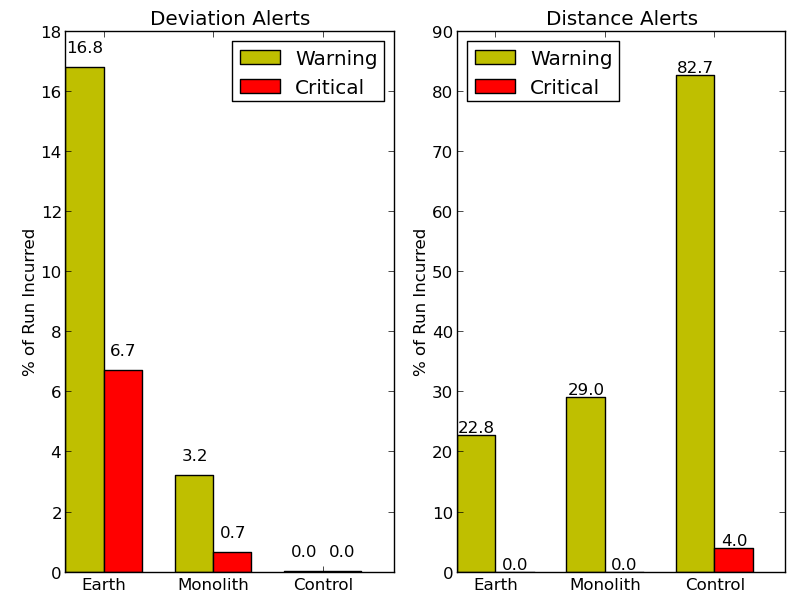
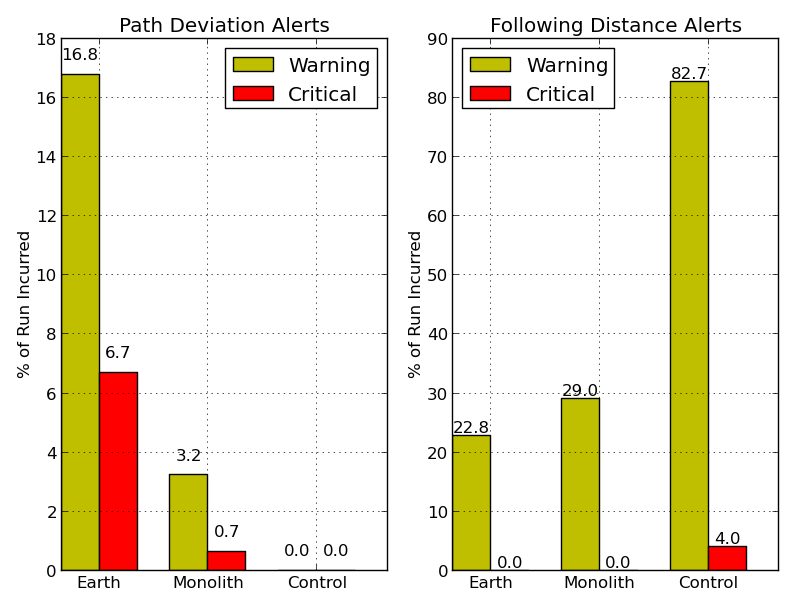
added pdf figs

Changed region(s): [[0.0, 0.0, 0.9852, 0.9624]]

diff --git a/chap_exper.tex b/chap_exper.tex
@@ -67,6 +67,7 @@ In determining the usefulness of any tool, it is highly desirable to devise a te
 
 The lane change replication test focused on aiding a driver in conditions where visibility is totally denied, as foliage and terrain features lie between the two vehicle during the moment of interest. Sensor and display frequencies will play a large role in this outcome. If information is updated with real time interpolation, a delay of at least one timestep (not including calculation time) is present, meaning that a worst-case GPS output frequency of 1.0 Hz will result 1.0 s data lag. When this is the case, the error in . The impact of that behavior is one thing being examined in the lane change replication test. For the monolithic GUI, this test will show whether the range scaling indicators adequately convey distance information so that a driver can determine where to turn, when the interpolation functionality is disabled for rapid updating. Sec. \ref{sec:lanechangetestresults} outlines the results of the lane change replication test.
 
+
 %%%% Target Spacing Test
 \subsection{Precision Following Test} \label{sec:targetspacingtest}
 The lane change replication test is one example of implementing the path duplication tool, but does not produce the detailed results necessary for a formal conclusion favoring the usefulness of one GUI over the other. Centimeter-level measurements are available, so it is of great interest to determine whether either tool enables a convoy driver to carry out the following task with this improved level of precision. The precision following test begins and ends with both vehicles parked atop the center stripe of the NCAT test track. The lead vehicle accelerates to approximately 45 mph then begins a sinusoidal path with a mean about the center stripe, a period of approximately 10 s, and an amplitude that puts the wheels of the lead vehicle upon the outermost lane marking at the peaks. Once reaching 45 mph, the magnitude of the leader's ground plane velocity vector will vary according to position on the track. Along the two 180$^\circ$ turns it will be approximately 45 mph, and along the straightaways it will be approximately 65 mph. Throughout the test, the following driver is attempting to maintain a inter-vehicular spacing as low as possible without incurring any distance alerts, and accumulate as little deviation over time as possible.
@@ -79,17 +80,17 @@ The lane change replication test is one example of implementing the path duplica
 
 This test primarily focused on distinguishing which GUI best provided aid in path duplication; for a comparative analysis, the test was conducted with the aid of each GUI individually, then without any assistance information at all. As this test was conducted in an environment equivalent to most American two-lane roads and the leader does not stray from the two outer lane markings, it was anticipated that the lateral deviation should be bounded by approximately the width of the road minus the track width of the widest vehicle, or $5.8~m$. This allows for scrutiny of the deviation in greater detail than when the lateral deviation is not bounded by design. Sec. \ref{sec:precisionfollowingresults} outlines the results of the precision following test.
 
+
+%%%% Can't see anything
 \subsection{Zero Landmark Test} \label{sec:zerolandmarktest}
 The precision following test took place in an environment abundant in visual landmarks by which to localize, such as lane markings and road signs. Given the motivation for these tools, it is necessary to examine the performance of both GUIs in a situation where this type of assistance is denied. The zero landmark test was therefore constructed to determine the impact of removing visual awareness of surrounds as well as waypoints along the leaders path to assist in replicating it.
 
 Both vehicles began parked in a large, open expanse of flat asphalt (`skidpad') with excellent GPS coverage. There are no clearly visible artifacts upon the ground, though some objects are visible at the outer edges of the skidpad. To further obscure visual following, the test was conducted at night. The lead vehicle drove in chaotic patterns intended present a path with is difficult to follow while the following vehicle attempted to adhere to the path as well as possible and maintain the closest possible curvilinear separation distance without triggering any alert messages. Sec. \ref{sec:zerolandmarkresults} outlines the results of the zero landmark test, and the path taken by the leader in one of the runs is shown in Fig.~\ref{fig:zerolandmarkpath}
 
 \begin{figure}[ht] \centering
-    \includegraphics[width=5in]{./figs/zero_landmark_path.png}
+    \includegraphics[width=4in]{./figs/zero_landmark_path.png}
     \caption{Path taken by lead vehicle during a single run of the zero landmark test} \label{fig:zerolandmarkpath}
 \end{figure}
-
-
 
 
 
@@ -100,13 +101,15 @@ Both vehicles began parked in a large, open expanse of flat asphalt (`skidpad') 
 
 In processing the collected data, some
 % technicalities
-When at any point a path is uncalculable, due to satellite outage, outlying values, course errors, or other errors, the path reported is of length one (a single point at the position of the leader). When this occurs, the following distance becomes 0.0, and these instances were ignored in tabulation of the following distance score.
+When at any point a path is incalculable, due to satellite outage, outlying values, course errors, or other errors, the path reported is of length one (a single point at the position of the leader). When this occurs, the following distance becomes 0.0, and these instances were ignored in tabulation of the following distance score.
 
 
 %%%%% Lane Change between Cones
 \subsection{Lane Change Replication Test Results} \label{sec:lanechangetestresults}
 
-Table \ref{tab:lanechangeresults} shows the results of all runs of the lane change replication test. It is plain to see that in every instance where a lane change was made between the improper cone pair, the follower changed lanes later than did the leader. This is attributed to latency existing in the combined system from calculation and driver reaction.
+Table \ref{tab:lanechangeresults} shows the results of all runs of the lane change replication test. Figures~\ref{fig:lanechange_earth} and~\ref{fig:lanechange_mono} show what the driver saw on the screen prior to attempting to make the correct lane change using the Earth GUI and the monolithic GUI, respectively.
+% Always changed lanes too late
+It is plain to see that in every instance where a lane change was made between the improper cone pair, the follower changed lanes later than did the leader. This is attributed to latency existing in the combined system from calculation and driver reaction.
 
 \begin{table}[htbp] \centering \caption{Cone pairs chosen in the lane change replication test}
 \begin{tabular}{c|cc} 
@@ -117,7 +120,11 @@ Table \ref{tab:lanechangeresults} shows the results of all runs of the lane chan
     4       &       5   &    5 \\ \hline   
 \end{tabular} \label{tab:lanechangeresults} \end{table}
 
-Figures~\ref{fig:lanechange_earth} and~\ref{fig:lanechange_mono} show what the driver saw onscreen prior to attempting to make the correct lane change using the Earth GUI and the monolithic GUI, respectivley.
+% Accuracy of google earth stuff
+As mentioned previously, the DRTK algorithm sacrifices accuracy in the global coordinate frame in favor of high accuracy in relative coordinate frames. In the case of path following, this means that at any time the current RPV to the leader from the follower will be extremely accurate. 
+% TDCP accuracy
+% When moving, path points will decrease in accuracy from the leader to the follower due to the time-dependent nature of TDCP accuracies.
+Google Earth, on the other hand, has been found to contain errors with a mean of 19.0 m , and a standard deviation of 12.3 m by \cite{ge_accuracy}. All points of interest (leader and all path points) are placed on the Google Earth screen by using the standalone GPS position of the follower and adding the RPV from the leader. Even ignoring the errors in standalone GPS, a 19.0 m translation from the true position would put all objects drivers use to orient themselves by well away from their true position as observed by the naked eye. However, the relative positions and scale on the Google Earth screen would still remain true. This was known during the testing, but testers still reported that this issue caused problems when determining where to change lanes.
 
 \begin{figure}[ht] \centering
     \begin{minipage}[b]{0.45\linewidth} \centering 
@@ -133,16 +140,13 @@ Figures~\ref{fig:lanechange_earth} and~\ref{fig:lanechange_mono} show what the d
 
 
 
-
-
 %%%%% Follow the Path around the track
 \subsection{Precision Following Test Results} \label{sec:precisionfollowingresults}
 
 % Explain the run-specific charts
-Shown in Figs. \ref{fig:precisionresults_earth} , \ref{fig:precisionresults_monolith} , and \ref{fig:precisionresults_control} are the best of all runs of the precision following test using the Earth-based GUI, monolithic GUI, and no GUI at all, respectivley. The criterion for selecting the `best' run was that which had the lowest combined percentage of timesteps when an alert was issued for either distance or deviation. Figure \ref{fig:precision_alerts} outlines how often alerts occurred during each data run.
+Shown in Figs. \ref{fig:precisionresults_earth} , \ref{fig:precisionresults_monolith} , and \ref{fig:precisionresults_control} are the best of all runs of the precision following test using the Earth-based GUI, monolithic GUI, and no GUI at all, respectively. The criterion for selecting the `best' run was that which had the lowest combined percentage of timesteps when an alert was issued for either distance or deviation. Figure \ref{fig:precision_alerts} outlines how often alerts occurred during each data run.
 
-
-
+In all runs without any aid from a GUI, drivers maintained significantly smaller follower distances than with visual aids. 
 
 
 %%%%% Skidpad drive around
@@ -150,4 +154,9 @@ Shown in Figs. \ref{fig:precisionresults_earth} , \ref{fig:precisionresults_mono
 
 % Explain the run-specific charts
 Shown in Figs. \ref{fig:zeroresults_earth} , \ref{fig:zeroresults_monolith} , and \ref{fig:zeroresults_control} are the best of all runs of the zero landmark test using the Earth-based GUI, monolithic GUI, and no GUI at all, respectivley. The criterion for selecting the `best' run was that which had the lowest combined percentage of timesteps when an alert was issued for either distance or deviation. Figure \ref{fig:zero_alerts} outlines how often alerts occurred during each data run.
+
+Drivers were most likely to over- or under-correct for path deviations, and due to lag in the system, had delayed reaction times to 
+
+% Problems with the zero landmark test
+The goal was to deprive drivers of visual landmarks during the test, which 
 

diff --git a/plot_alert_percents.py b/plot_alert_percents.py
@@ -39,7 +39,8 @@ ax = fig.add_subplot(121)
 rects_warn = ax.bar(ind, pf_dev_warn, width, color='y')
 rects_crit = ax.bar(ind+width, pf_dev_crit, width, color='r')
 ax.set_ylabel('% of Run Incurred')
-ax.set_title('Deviation Alerts')
+ax.set_title('Path Deviation Alerts')
+ax.grid(True)
 ax.set_xticks(ind+width)
 ax.set_xticklabels( ('Earth', 'Monolith', 'Control') )
 ax.legend( (rects_warn[0], rects_crit[0]), ('Warning', 'Critical'), 'upper right' )
@@ -50,7 +51,8 @@ ax = fig.add_subplot(122)
 rects_warn = ax.bar(ind, pf_dst_warn, width, color='y')
 rects_crit = ax.bar(ind+width, pf_dst_crit, width, color='r')
 ax.set_ylabel('% of Run Incurred')
-ax.set_title('Distance Alerts')
+ax.set_title('Following Distance Alerts')
+ax.grid(True)
 ax.set_xticks(ind+width)
 ax.set_xticklabels( ('Earth', 'Monolith', 'Control') )
 ax.legend( (rects_warn[0], rects_crit[0]), ('Warning', 'Critical'), 'upper left' )
@@ -67,7 +69,8 @@ ax = fig.add_subplot(121)
 rects_warn = ax.bar(ind, zl_dev_warn, width, color='y')
 rects_crit = ax.bar(ind+width, zl_dev_crit, width, color='r')
 ax.set_ylabel('% Incurred')
-ax.set_title('Dev Alerts')
+ax.set_title('Path Deviation Alerts')
+ax.grid(True)
 ax.set_xticks(ind+width)
 ax.set_xticklabels( ('Earth', 'Monolith', 'Control') )
 plt.ylim((0,45))
@@ -79,7 +82,8 @@ ax = fig.add_subplot(122)
 rects_warn = ax.bar(ind, zl_dst_warn, width, color='y')
 rects_crit = ax.bar(ind+width, zl_dst_crit, width, color='r')
 ax.set_ylabel('% Incurred')
-ax.set_title('Dst. Alerts')
+ax.set_title('Following Distance Alerts')
+ax.grid(True)
 ax.set_xticks(ind+width)
 ax.set_xticklabels( ('Earth', 'Monolith', 'Control') )
 ax.legend( (rects_warn[0], rects_crit[0]), ('Warning', 'Critical'), 'upper left' )

diff --git a/thesis_appendices.tex b/thesis_appendices.tex
@@ -28,6 +28,11 @@
 \end{figure}
 
 
+% \begin{figure}[ht] \centering % good.
+%     \includegraphics[width=5.5in]{./figs/precision_following_results_dst_dev_control.png}
+%     \caption{Best run of the precision following test using no GUI} \label{fig:precisionresults_dist}
+% \end{figure}
+
 
 
 %%%%%%%%%%%%%%%%%%%%%%%%%%%%%%%%%%%%%%%%%%%%%%%%%%%%%%%%%%%%%%%%%%%%%%%%%%%%%%%%
